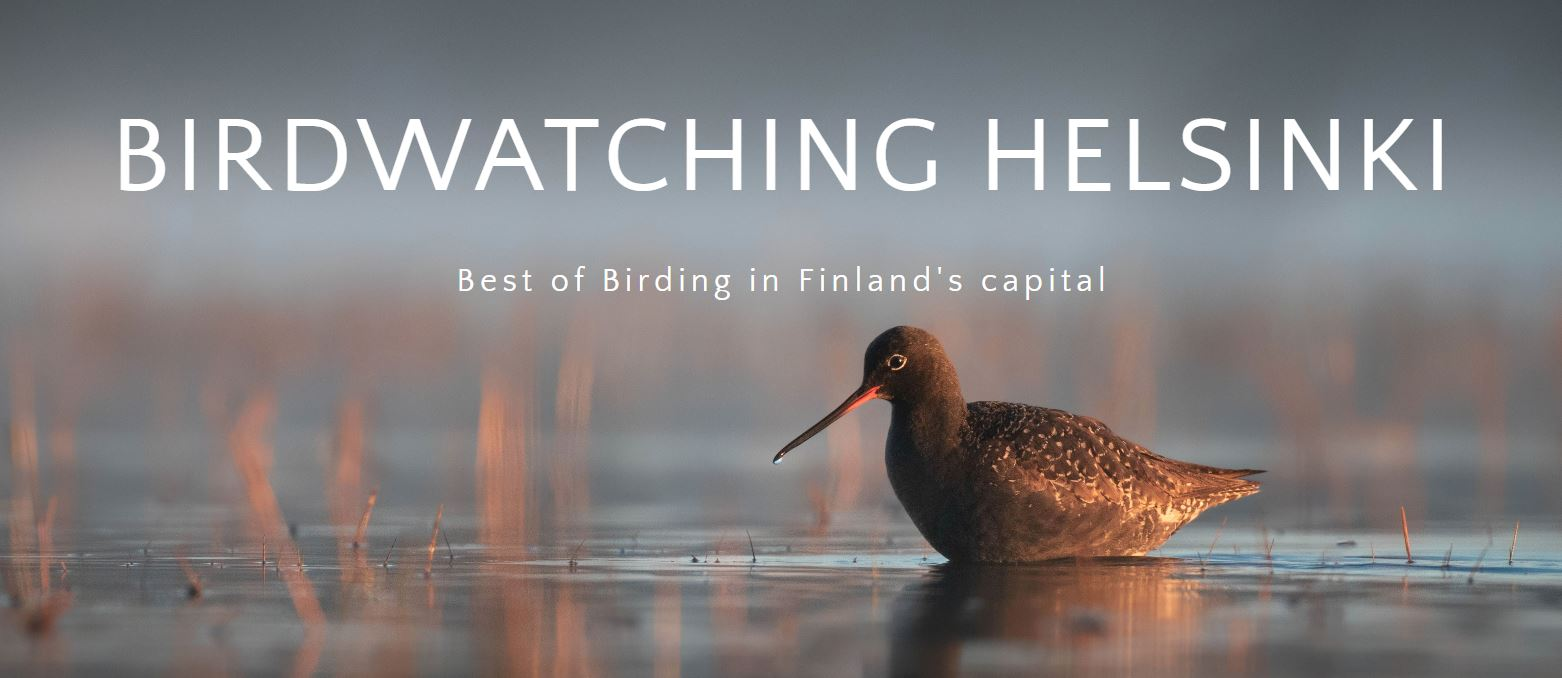
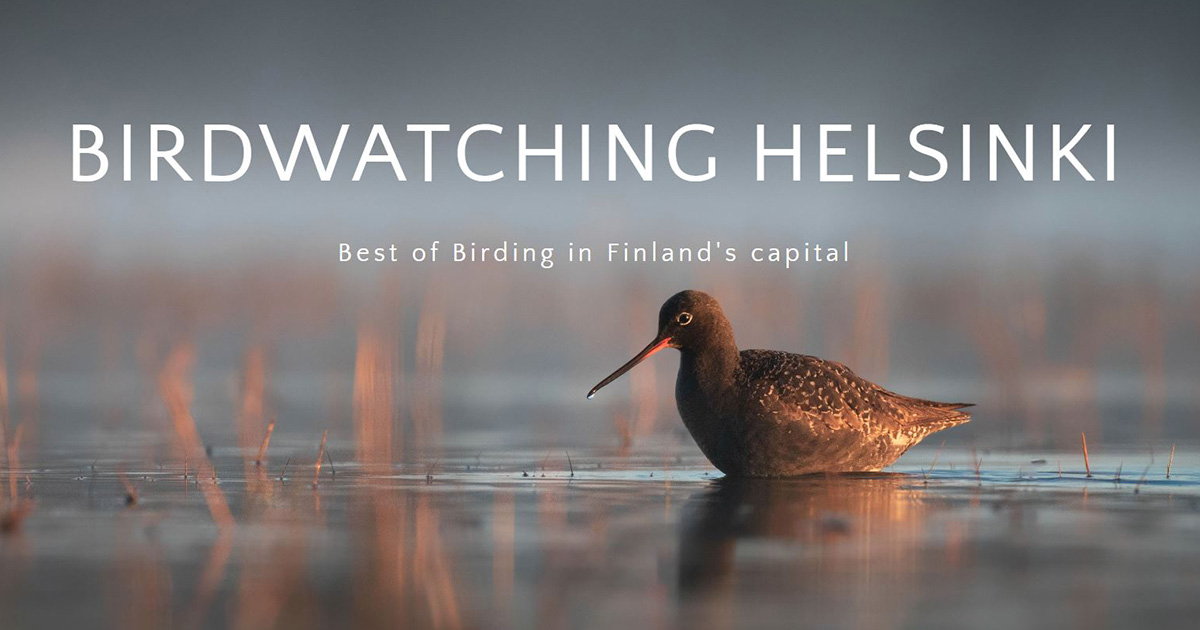
SEO improvements

diff --git a/trip-reports.html b/trip-reports.html
@@ -5,6 +5,12 @@
   <link rel="icon" type="image/x-icon" href="images/eider-favicon-3.png">
 <meta charset="UTF-8">
 <meta name="viewport" content="width=device-width, initial-scale=1">
+<meta name="description" content="Hi, I'm Samuel, I'm a birding guide in Helsinki. I keep precise records of my outings so I can share the wonders of birding with the world!">
+<meta property="og:title" content="Birdwatching Helsinki - guided tours with Samuel Bloch" />
+<meta property="og:type" content="website" />
+<meta property="og:url" content="https://birdwatching-helsinki.com/trip-reports.html" />
+<meta property="og:image" content="https://birdwatching-helsinki.com/images/OG-trip-reports.jpg" />
+<meta property="og:image:alt" content="The Great Egret is a recent addition to the Finnish wildlife that's expanding further north year after year" />
 <link rel="stylesheet" href="https://www.w3schools.com/w3css/4/w3.css">
 <link rel="stylesheet" href="https://fonts.googleapis.com/css?family=Quattrocento+Sans">
 <link rel="stylesheet" href="https://cdnjs.cloudflare.com/ajax/libs/font-awesome/4.7.0/css/font-awesome.min.css">
@@ -21,6 +27,18 @@ h2 {
 
 .last-image {
   padding-bottom: 64px;
+}
+.h1-section {
+  padding-top: 32px;
+  padding-bottom: 0px;
+}
+.article-no-top-padding {
+  padding-top: 0px;
+  padding-bottom: 32px;
+}
+.article-no-bottom-padding {
+  padding-top: 32px;
+  padding-bottom: 0px;
 }
 
 </style>
@@ -49,9 +67,11 @@ h2 {
   </div>
 </nav>
 
-<article class="w3-content w3-container me-padding-32">
+<section class="w3-content w3-container h1-section">
   <h1 class="w3-center" id="home">TRIP REPORTS</h1>
-  <p class="w3-center">2024, February 24</p>
+</section>
+<article class="w3-content w3-container article-no-top-padding">
+  <p class="w3-center"><time datetime="2024-02-24">2024, February 24</time></p>
   <h2 class="w3-center">Lauttasaari with Judith</h2>
   <p>I met Judith at her hotel, and after a walk through a central park that yielded common species but not the Ural Owl that had been spotted in the prior days, we took the metro to Lauttasaari for some coastal birding. Once again I was reminded how beautiful some of our most common birds are, and what a delight it is to have Eurasian Blue Tits, Great Spotted Woodpeckers and Northern Ravens near home! The sea ice was in tatters, and Common Goldeneyes displayed on patches of open water. As we were about to leave, a distant White-tailed Eagle revealed itself. It flew over the sea, once again harassed by crows. Among the ferries, a large group of Long-tailed Ducks practiced synchronized diving. They were far away, but the scope let us enjoy the show nonetheless!</p>
 </article>
@@ -72,12 +92,13 @@ h2 {
   </div>
 </div>
 
-<article class="w3-content w3-container me-padding-32">
-  <p class="w3-center">2024, February 23</p>
+<article class="w3-content w3-container article-no-bottom-padding">
+  <p class="w3-center"><time datetime="2024-02-23">2024, February 23</time></p>
   <h2 class="w3-center">Vanhakaupunginlahti with Alistair</h2>
   <p>Birding in winter can be a little lackluster, but we are sure to find life around bird feeders... and that's what happened again with Alistair. A flurry of Eurasian Greenfinches, Eurasian Tree Sparrows and European Goldfinches delighted us for a while, with Eurasian Bullfinches playing hard to get by staying on top of the trees. Nearby, a relaxed young Eurasian Sparrowhawk preened on a branch, almost at eye level. The Long-eared Owl I was hoping to find wasn't at home, but a superb Great Grey Shrike hunted on the ice-covered fields, using the fence as a perch. Further away, a majestic White-tailed Eagle sat on the ice while a cheeky Hooded Crow tried to pull feathers from it. What a sight! </p>
-
-  <p class="w3-center">2023, October 22</p>
+</article>
+<article class="w3-content w3-container article-no-top-padding">
+  <p class="w3-center"><time datetime="2023-10-22">2023, October 22</time></p>
   <h2 class="w3-center">Vanhakaupunginlahti with Carole</h2>
   <p>This time, the weather was rather unpleasant, with constant drizzle and a bit of wind. I had warned Carole, though, and we were all determined to make it a great morning of birding nonetheless. Late autumn brings different birds to Helsinki, and the stars of the show definitely were the Smews, fascinating northern ducks that are regular at that time of year. They gave use great views from the birdtowers. A rare Little Grebe was there too, along with a cohort of Common Ravens. In the forest, we found a bustling group of migrating songbirds that included my first Bramblings of the year but also Yellowhammers and Common Chaffinches. We finished our outing with majestic Whooper Swans quarrelling in the fields.</p>
 </article>
@@ -101,7 +122,7 @@ h2 {
 </div>
 
 <article class="w3-content w3-container me-padding-32">
-  <p class="w3-center">2023, September 18</p>
+  <p class="w3-center"><time datetime="2023-09-18">2023, September 18</time></p>
   <h2 class="w3-center">Greater Helsinki tour with Tim, Helen and Patrick</h2>
   <p>This extended full-day program took us to a variety of places around Helsinki, with Tim at the wheel, searching for specific species. We started in eastern Helsinki, where a distant Greater Scaup stirred a bit of excitement. We also had fantastic views of a group of Goldcrests at eye level - they are usually high in the trees! A pair of Tawny Owls (one rufous, one grey) huddling at the top of a chimney was the icing on the cake. We then moved on to farmlands that were a bit too quiet to my liking, but lunch break proved productive when a Black Woodpecker, one of Patrick's targets, came to perch in a nearby stand of tall spruce. The sparrows even got to enjoy a taste of the cinnamon buns we (momentarily) abandoned on the table in our haste to watch the woody! Later, tens of Common Cranes and Bean geese embodied the wonders of migration time, along with a lone Peregrine Falcon and a putative Pallid Harrier seen from the car.</p>
 </article>
@@ -123,7 +144,7 @@ h2 {
 </div>
 
 <article class="w3-content w3-container me-padding-32">
-  <p class="w3-center">2023, September 10</p>
+  <p class="w3-center"><time datetime="2023-09-10">2023, September 10</time></p>
   <h2 class="w3-center">Vanhakaupunginlahti with Mark</h2>
   <p>It's on a grey but rather warm morning that I met Mark. The wetlands of Vanhakaupunginlahti offered a fantastic range of waterfowl, with all the surface ducks (including Northern Pintail and Northern Shoveler), geese and swans present. It was a bit late in the year for waders, but we still got great views of two Spotted Redshanks, and the sleek Great Egret showed well too. The woodlands were rather quiet, though with a bit of patience we managed fine views of Goldcrests and Northern Wrens, the smallest birds in Europe. We looked for the long-staying Caspian Gull, to no avail, and finished the tour with a gorgeous Goosander near the rapids.</p>
 </article>
@@ -146,11 +167,13 @@ h2 {
   </div>
 </div>
 
-<article class="w3-content w3-container me-padding-32">
-  <p class="w3-center">2023, August 29</p>
+<article class="w3-content w3-container article-no-bottom-padding">
+  <p class="w3-center"><time datetime="2023-08-29">2023, August 29</time></p>
   <h2 class="w3-center">Laajalahti with Nikita</h2>
   <p>With water levels even higher than a few days before, I feared there would be no wader to show to Nikita from the birdtower... but we were in luck, for a quite a few remained on the emerged land right in front of us, among sleepy Barnacle Geese: Ruffs and Dunlins ran in the mud while Northern Lapwings and Common Snipes offered the fascinating aerial show they are known for. We found migrating Tree Pipits at the edge of the woods, and Western Yellow Wagtails in the fields, and enjoyed the last warblers of the year, including an inobstrusive but attractive Garden Warbler. We finished our tour with the national bird of Finland, the elegant Whooper Swan.</p>
-  <p class="w3-center">2023, August 25</p>
+</article>
+<article class="w3-content w3-container article-no-top-padding">
+  <p class="w3-center"><time datetime="2023-08-25">2023, August 25</time></p>
   <h2 class="w3-center">Laajalahti with Jeff</h2>
   <p>I met Jeff at dawn, and together we ventured into the mists of Laajalahti. Fortunately, it all cleared up as the sun rose, and we were treated to a fantastic assortment of waders. Because the water level was so high, they were all concentrated in a small area, and we had fantastic views of Curlew Sandpipers and Spotted Redshanks, among others. Behind us, young Red-backed Shrikes on migration hunted in the reedbed. As we walked around the bay, enjoying the chatter of countless songbirds, a loud call echoed nearby: it was a Black Woodpecker! It took us a while to spot it, but finally there it was, digging into a tall dead birch. What a spectacular bird! At the end of our tour, a Red Fox in a field and a fast Eurasian Sparrowhawk put a nice final touch to a great morning of birding.</p>
 </article>

diff --git a/testimonials.html b/testimonials.html
@@ -5,6 +5,12 @@
   <link rel="icon" type="image/x-icon" href="images/eider-favicon-3.png">
 <meta charset="UTF-8">
 <meta name="viewport" content="width=device-width, initial-scale=1">
+<meta name="description" content="Hi, I'm Samuel, I'm a birding guide in Helsinki. I always strive to make my clients happy, so they enjoy their time outside to the fullest!">
+<meta property="og:title" content="Birdwatching Helsinki - guided tours with Samuel Bloch" />
+<meta property="og:type" content="website" />
+<meta property="og:url" content="https://birdwatching-helsinki.com/testimonials.html" />
+<meta property="og:image" content="https://birdwatching-helsinki.com/images/OG-testimonials.jpg" />
+<meta property="og:image:alt" content="Common Goldeneye displaying on a pond in Helsinki" />
 <link rel="stylesheet" href="https://www.w3schools.com/w3css/4/w3.css">
 <link rel="stylesheet" href="https://fonts.googleapis.com/css?family=Quattrocento+Sans">
 <link rel="stylesheet" href="https://cdnjs.cloudflare.com/ajax/libs/font-awesome/4.7.0/css/font-awesome.min.css">

diff --git a/about.html b/about.html
@@ -5,6 +5,12 @@
   <link rel="icon" type="image/x-icon" href="images/eider-favicon-3.png">
 <meta charset="UTF-8">
 <meta name="viewport" content="width=device-width, initial-scale=1">
+<meta name="description" content="Hi, I'm Samuel, I'm a birding guide in Helsinki. Tailored to your wishes, my tours are full of good vibes and exciting birds!">
+<meta property="og:title" content="Birdwatching Helsinki - guided tours with Samuel Bloch" />
+<meta property="og:type" content="website" />
+<meta property="og:url" content="https://birdwatching-helsinki.com/about.html" />
+<meta property="og:image" content="https://birdwatching-helsinki.com/images/OG-about.jpg" />
+<meta property="og:image:alt" content="Swans and geese are common visitors to Helsinki in early spring" />
 <link rel="stylesheet" href="https://www.w3schools.com/w3css/4/w3.css">
 <link rel="stylesheet" href="https://fonts.googleapis.com/css?family=Quattrocento+Sans">
 <link rel="stylesheet" href="https://cdnjs.cloudflare.com/ajax/libs/font-awesome/4.7.0/css/font-awesome.min.css">

diff --git a/suomeksi.html b/suomeksi.html
@@ -5,6 +5,12 @@
   <link rel="icon" type="image/x-icon" href="images/eider-favicon-3.png">
 <meta charset="UTF-8">
 <meta name="viewport" content="width=device-width, initial-scale=1">
+<meta name="description" content="Moi, minä olen Samuel Bloch, minä olen lintuopas Helsingissä!">
+<meta property="og:title" content="Linturetket Helsingissä - guided tours with Samuel Bloch" />
+<meta property="og:type" content="website" />
+<meta property="og:url" content="https://birdwatching-helsinki.com/suomeksi.html" />
+<meta property="og:image" content="https://birdwatching-helsinki.com/images/OG-suomeksi.jpg" />
+<meta property="og:image:alt" content="Haahka parvi Suomessa" />
 <link rel="stylesheet" href="https://www.w3schools.com/w3css/4/w3.css">
 <link rel="stylesheet" href="https://fonts.googleapis.com/css?family=Quattrocento+Sans">
 <link rel="stylesheet" href="https://cdnjs.cloudflare.com/ajax/libs/font-awesome/4.7.0/css/font-awesome.min.css">

diff --git a/index.html b/index.html
@@ -5,7 +5,7 @@
   <link rel="icon" type="image/x-icon" href="images/eider-favicon-3.png">
 <meta charset="UTF-8">
 <meta name="viewport" content="width=device-width, initial-scale=1">
-<meta name="description" content="Hiring a local guide is the best way to enjoy Helsinki's brilliant nature. Tailored to your wishing, our tours are full of good vibes and exciting birds!">
+<meta name="description" content="Hiring a local guide is the best way to enjoy Helsinki's brilliant nature. Tailored to your wishes, our tours are full of good vibes and exciting birds!">
 <meta property="og:title" content="Birdwatching Helsinki - guided tours with Samuel Bloch" />
 <meta property="og:type" content="website" />
 <meta property="og:url" content="https://birdwatching-helsinki.com/" />
